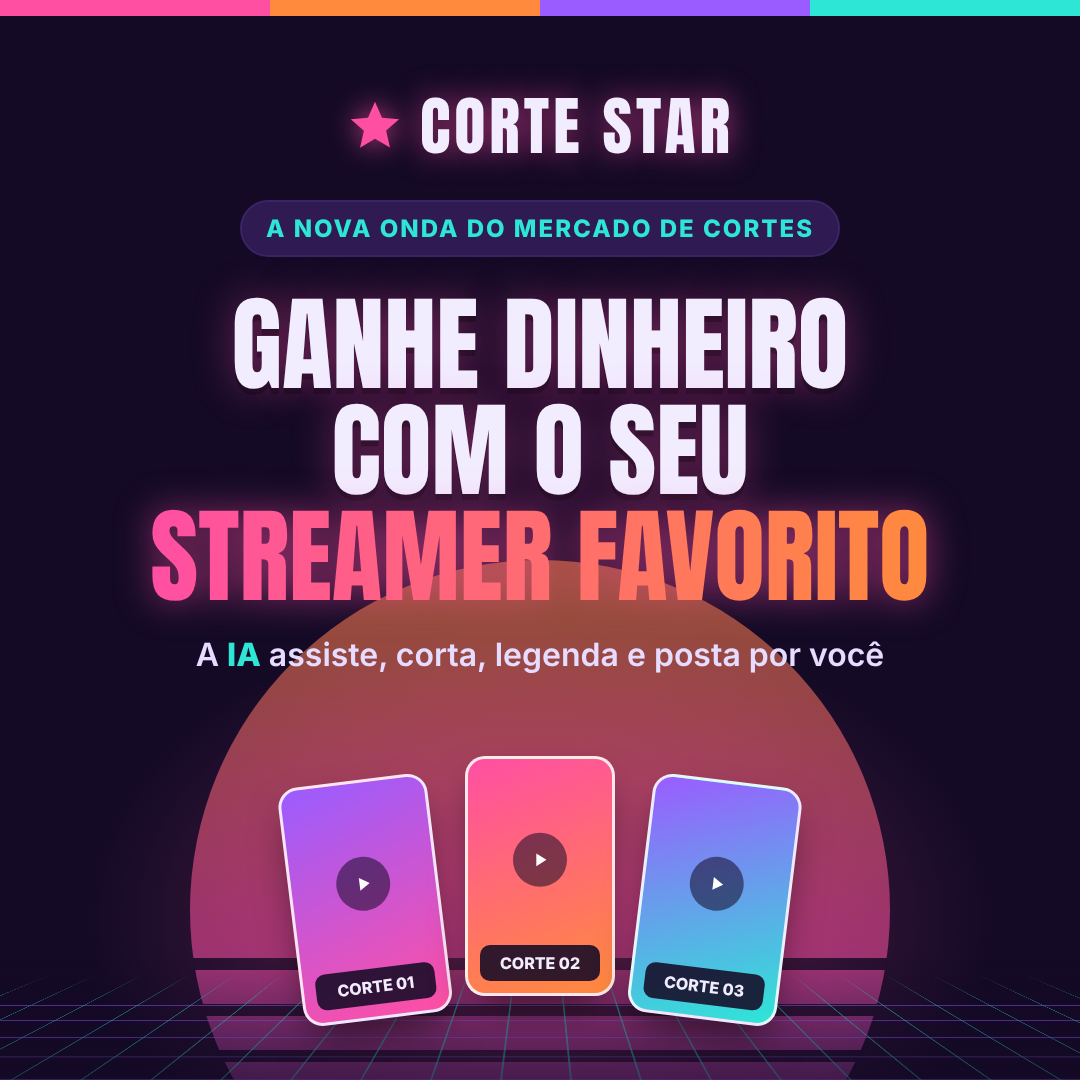
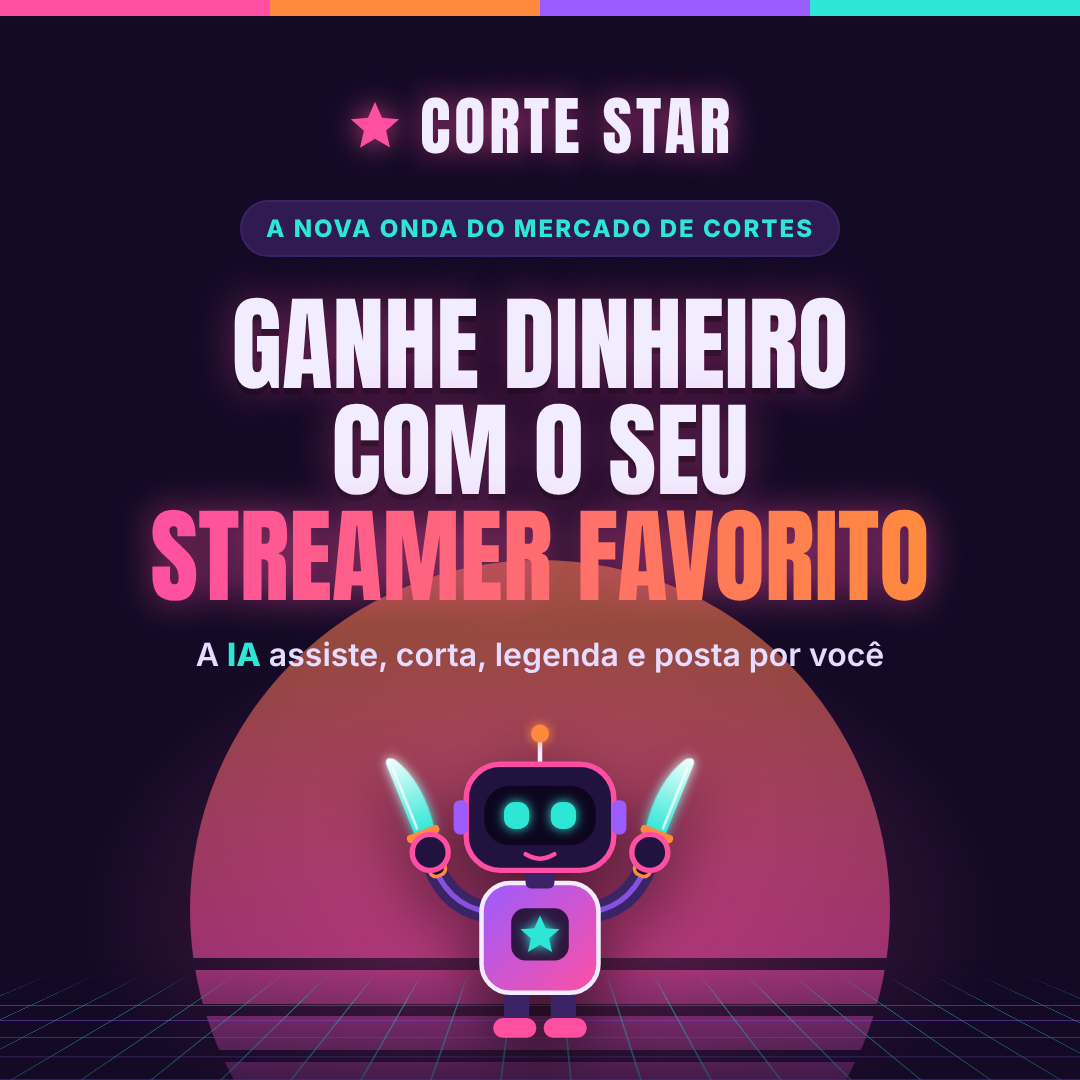
Capa: robô com duas facas no lugar dos cortes
Claude-Session: https://claude.ai/code/session_01ApH58V6Mu5Y334mHzTZofn

Changed region(s): [[0.2444, 0.6722, 0.7639, 0.9778]]

diff --git a/capas/capa.html b/capas/capa.html
@@ -28,6 +28,7 @@ h1 span{text-shadow:none;filter:drop-shadow(0 0 18px rgba(255,79,163,.55));backg
 .clip span{width:100%;background:rgba(20,10,38,.88);border-radius:10px;padding:8px 4px;font-size:16px;font-weight:800;text-transform:uppercase;text-align:center}
 .play{position:absolute;top:50%;left:50%;transform:translate(-50%,-80%);width:54px;height:54px;border-radius:50%;background:rgba(20,10,38,.55);display:grid;place-items:center}
 .clip{position:relative}
+.robot{position:absolute;left:50%;bottom:8px;transform:translateX(-50%);width:360px;height:360px;filter:drop-shadow(0 24px 30px rgba(0,0,0,.55))}
 </style></head><body>
 <div class="sun"></div><div class="glow"></div><div class="grid"></div><div class="fade"></div><div class="stripe"></div>
 <div class="c">
@@ -36,9 +37,50 @@ h1 span{text-shadow:none;filter:drop-shadow(0 0 18px rgba(255,79,163,.55));backg
   <h1>Ganhe dinheiro<br>com o seu<br><span>streamer favorito</span></h1>
   <p class="sub">A <b>IA</b> assiste, corta, legenda e posta por você</p>
 </div>
-<div class="clips">
-  <div class="clip"><div class="play"><svg width="22" height="22" viewBox="0 0 24 24"><path fill="#fff" d="M8 5v14l11-7z"/></svg></div><span>Corte 01</span></div>
-  <div class="clip"><div class="play"><svg width="22" height="22" viewBox="0 0 24 24"><path fill="#fff" d="M8 5v14l11-7z"/></svg></div><span>Corte 02</span></div>
-  <div class="clip"><div class="play"><svg width="22" height="22" viewBox="0 0 24 24"><path fill="#fff" d="M8 5v14l11-7z"/></svg></div><span>Corte 03</span></div>
-</div>
+<svg class="robot" viewBox="0 0 400 400" aria-hidden="true">
+  <defs>
+    <linearGradient id="bl" x1="0" y1="1" x2="0" y2="0"><stop offset="0" stop-color="#2EE6D6"/><stop offset="1" stop-color="#F2FFFE"/></linearGradient>
+    <linearGradient id="bd" x1="0" y1="0" x2="1" y2="1"><stop offset="0" stop-color="#9B5CFF"/><stop offset="1" stop-color="#FF4FA3"/></linearGradient>
+    <filter id="gl" x="-50%" y="-50%" width="200%" height="200%"><feGaussianBlur stdDeviation="6" result="b"/><feMerge><feMergeNode in="b"/><feMergeNode in="SourceGraphic"/></feMerge></filter>
+    <g id="knife">
+      <path d="M-9,-16 L-9,-104 Q-6,-112 2,-104 Q22,-70 14,-16 Z" fill="url(#bl)" filter="url(#gl)"/>
+      <path d="M-4,-24 L-4,-96" stroke="#fff" stroke-width="3" stroke-linecap="round" opacity=".7"/>
+      <rect x="-19" y="-20" width="38" height="9" rx="4" fill="#FF8A3D"/>
+      <rect x="-9" y="-12" width="18" height="46" rx="7" fill="#1A0B2E" stroke="#FF8A3D" stroke-width="4"/>
+    </g>
+  </defs>
+  <!-- bracos -->
+  <path d="M142,222 Q95,215 78,160" fill="none" stroke="#3A2466" stroke-width="24" stroke-linecap="round"/>
+  <path d="M258,222 Q305,215 322,160" fill="none" stroke="#3A2466" stroke-width="24" stroke-linecap="round"/>
+  <path d="M142,222 Q95,215 78,160" fill="none" stroke="#9B5CFF" stroke-width="6" stroke-linecap="round" opacity=".8"/>
+  <path d="M258,222 Q305,215 322,160" fill="none" stroke="#9B5CFF" stroke-width="6" stroke-linecap="round" opacity=".8"/>
+  <!-- facas -->
+  <use href="#knife" transform="translate(76,150) rotate(-22)"/>
+  <use href="#knife" transform="translate(324,150) rotate(22) scale(-1,1)"/>
+  <!-- maos -->
+  <circle cx="78" cy="156" r="20" fill="#22123F" stroke="#FF4FA3" stroke-width="6"/>
+  <circle cx="322" cy="156" r="20" fill="#22123F" stroke="#FF4FA3" stroke-width="6"/>
+  <!-- pernas -->
+  <rect x="160" y="300" width="28" height="50" rx="10" fill="#3A2466"/>
+  <rect x="212" y="300" width="28" height="50" rx="10" fill="#3A2466"/>
+  <rect x="148" y="340" width="48" height="22" rx="11" fill="#FF4FA3"/>
+  <rect x="204" y="340" width="48" height="22" rx="11" fill="#FF4FA3"/>
+  <!-- corpo -->
+  <rect x="135" y="190" width="130" height="122" rx="32" fill="url(#bd)" stroke="#F2ECFF" stroke-width="5"/>
+  <rect x="168" y="218" width="64" height="58" rx="16" fill="#140A26" opacity=".85"/>
+  <path fill="#2EE6D6" filter="url(#gl)" d="M200,226 l6.3,14.2 15.4,1.3 -11.7,10.2 3.5,15.1 -13.5,-8.1 -13.5,8.1 3.5,-15.1 -11.7,-10.2 15.4,-1.3z"/>
+  <!-- pescoco -->
+  <rect x="184" y="170" width="32" height="26" rx="6" fill="#3A2466"/>
+  <!-- antena -->
+  <line x1="200" y1="62" x2="200" y2="30" stroke="#F2ECFF" stroke-width="5" stroke-linecap="round"/>
+  <circle cx="200" cy="24" r="10" fill="#FF8A3D" filter="url(#gl)"/>
+  <!-- cabeca -->
+  <rect x="118" y="58" width="164" height="118" rx="38" fill="#22123F" stroke="#FF4FA3" stroke-width="6"/>
+  <rect x="104" y="98" width="16" height="38" rx="7" fill="#9B5CFF"/>
+  <rect x="280" y="98" width="16" height="38" rx="7" fill="#9B5CFF"/>
+  <rect x="138" y="82" width="124" height="66" rx="28" fill="#0E0620"/>
+  <rect x="160" y="100" width="28" height="30" rx="12" fill="#2EE6D6" filter="url(#gl)"/>
+  <rect x="212" y="100" width="28" height="30" rx="12" fill="#2EE6D6" filter="url(#gl)"/>
+  <path d="M184,158 Q200,168 216,158" fill="none" stroke="#FF4FA3" stroke-width="5" stroke-linecap="round"/>
+</svg>
 </body></html>
